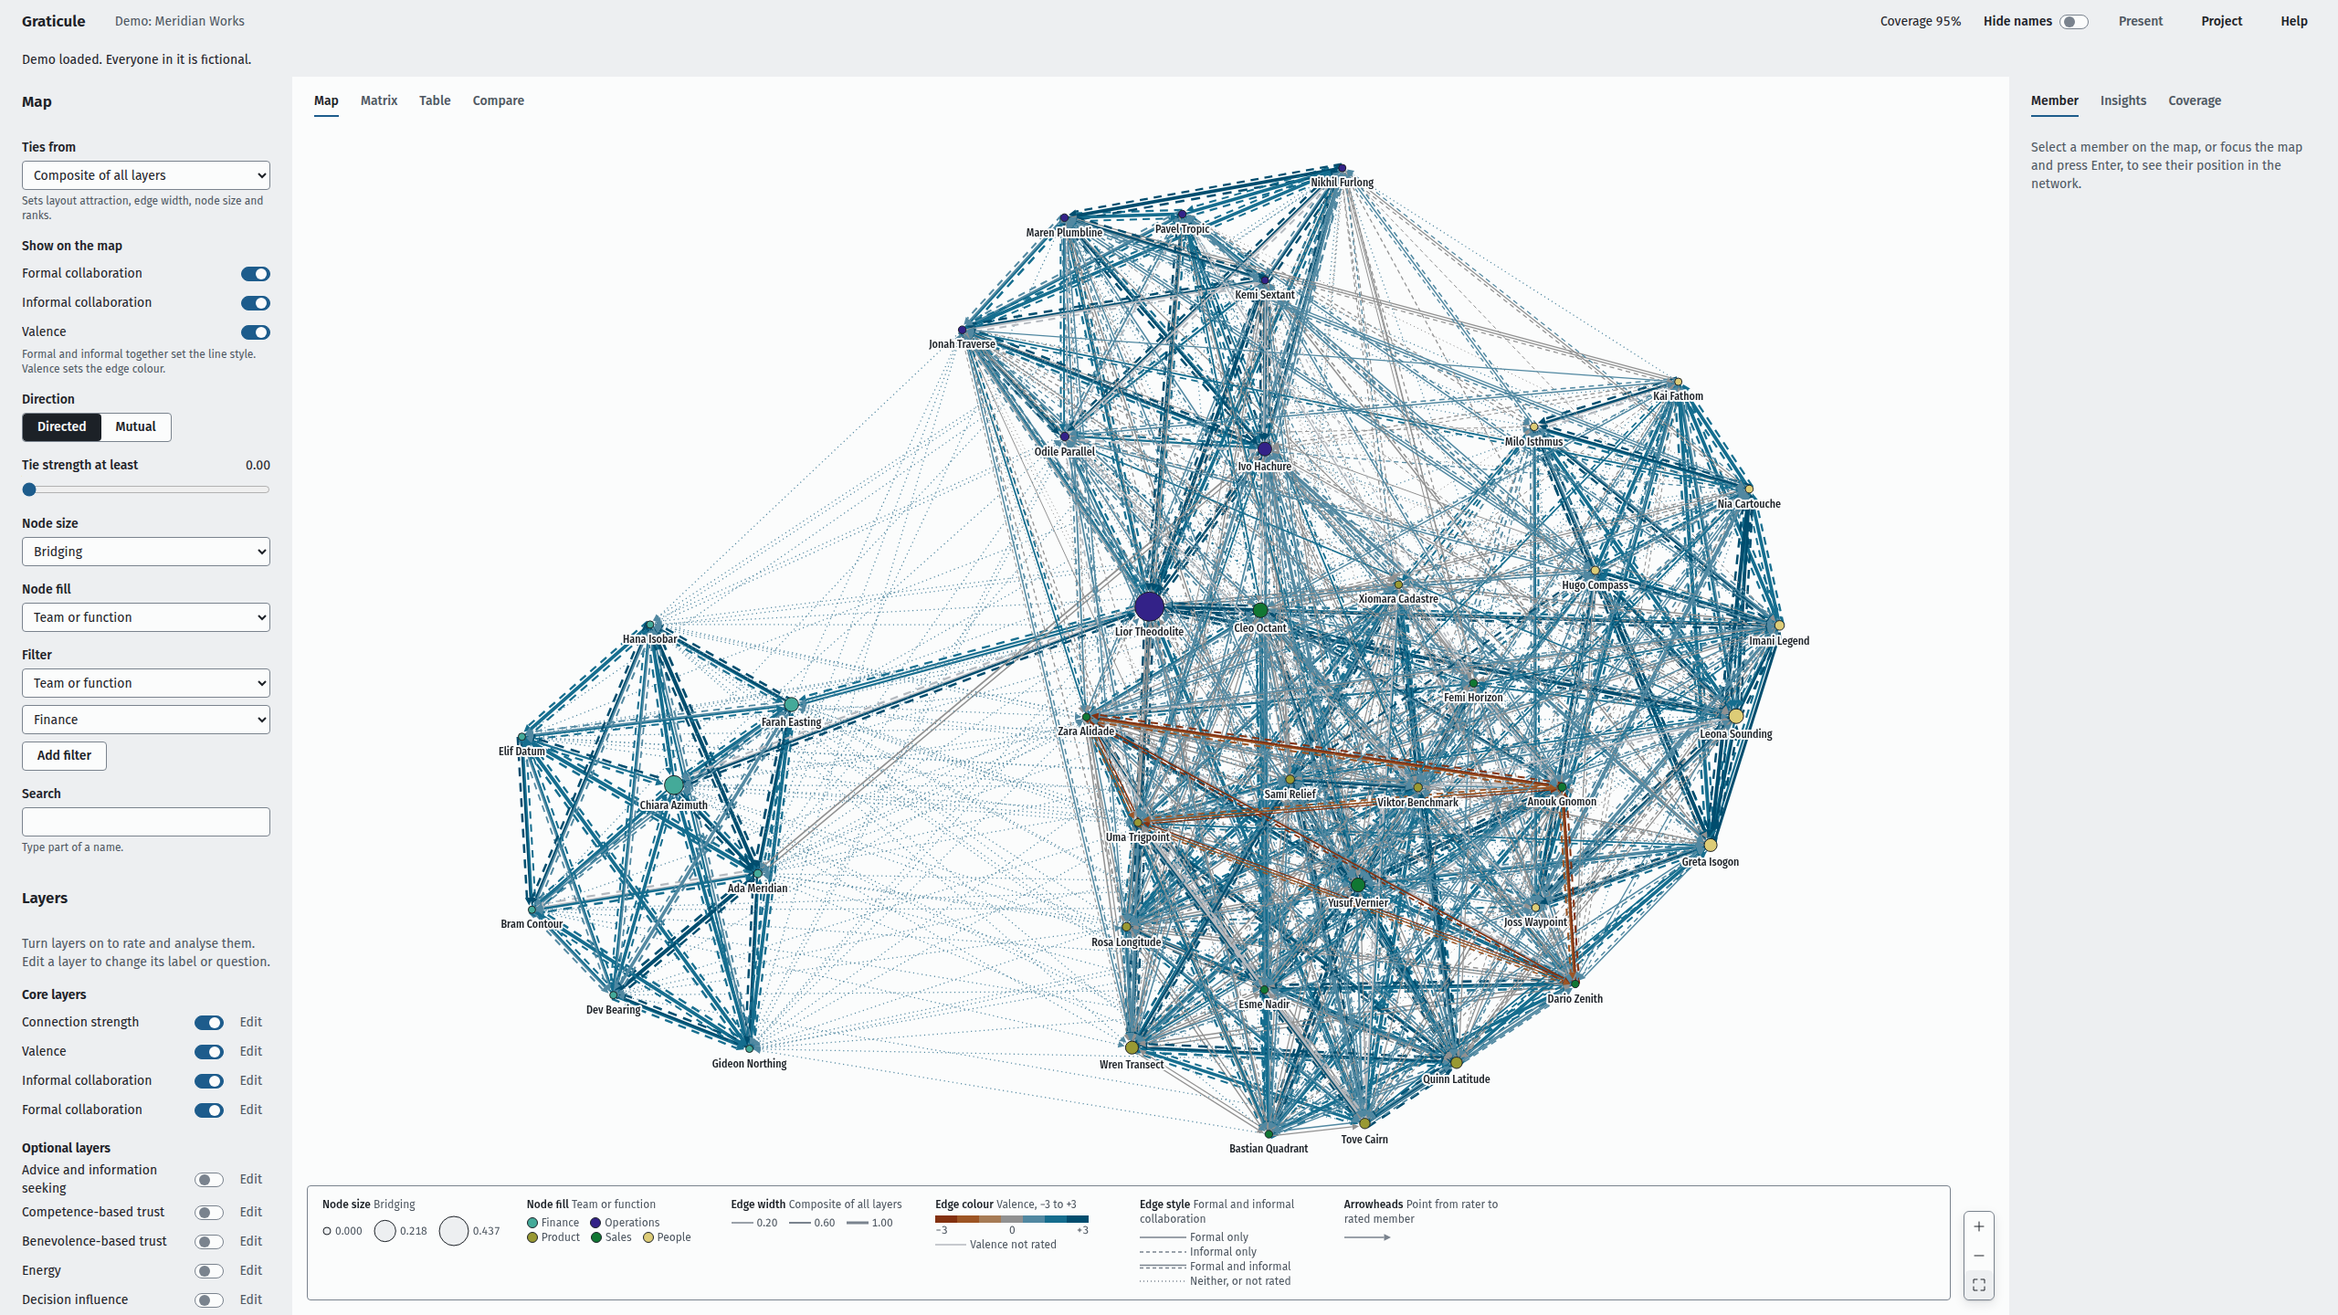
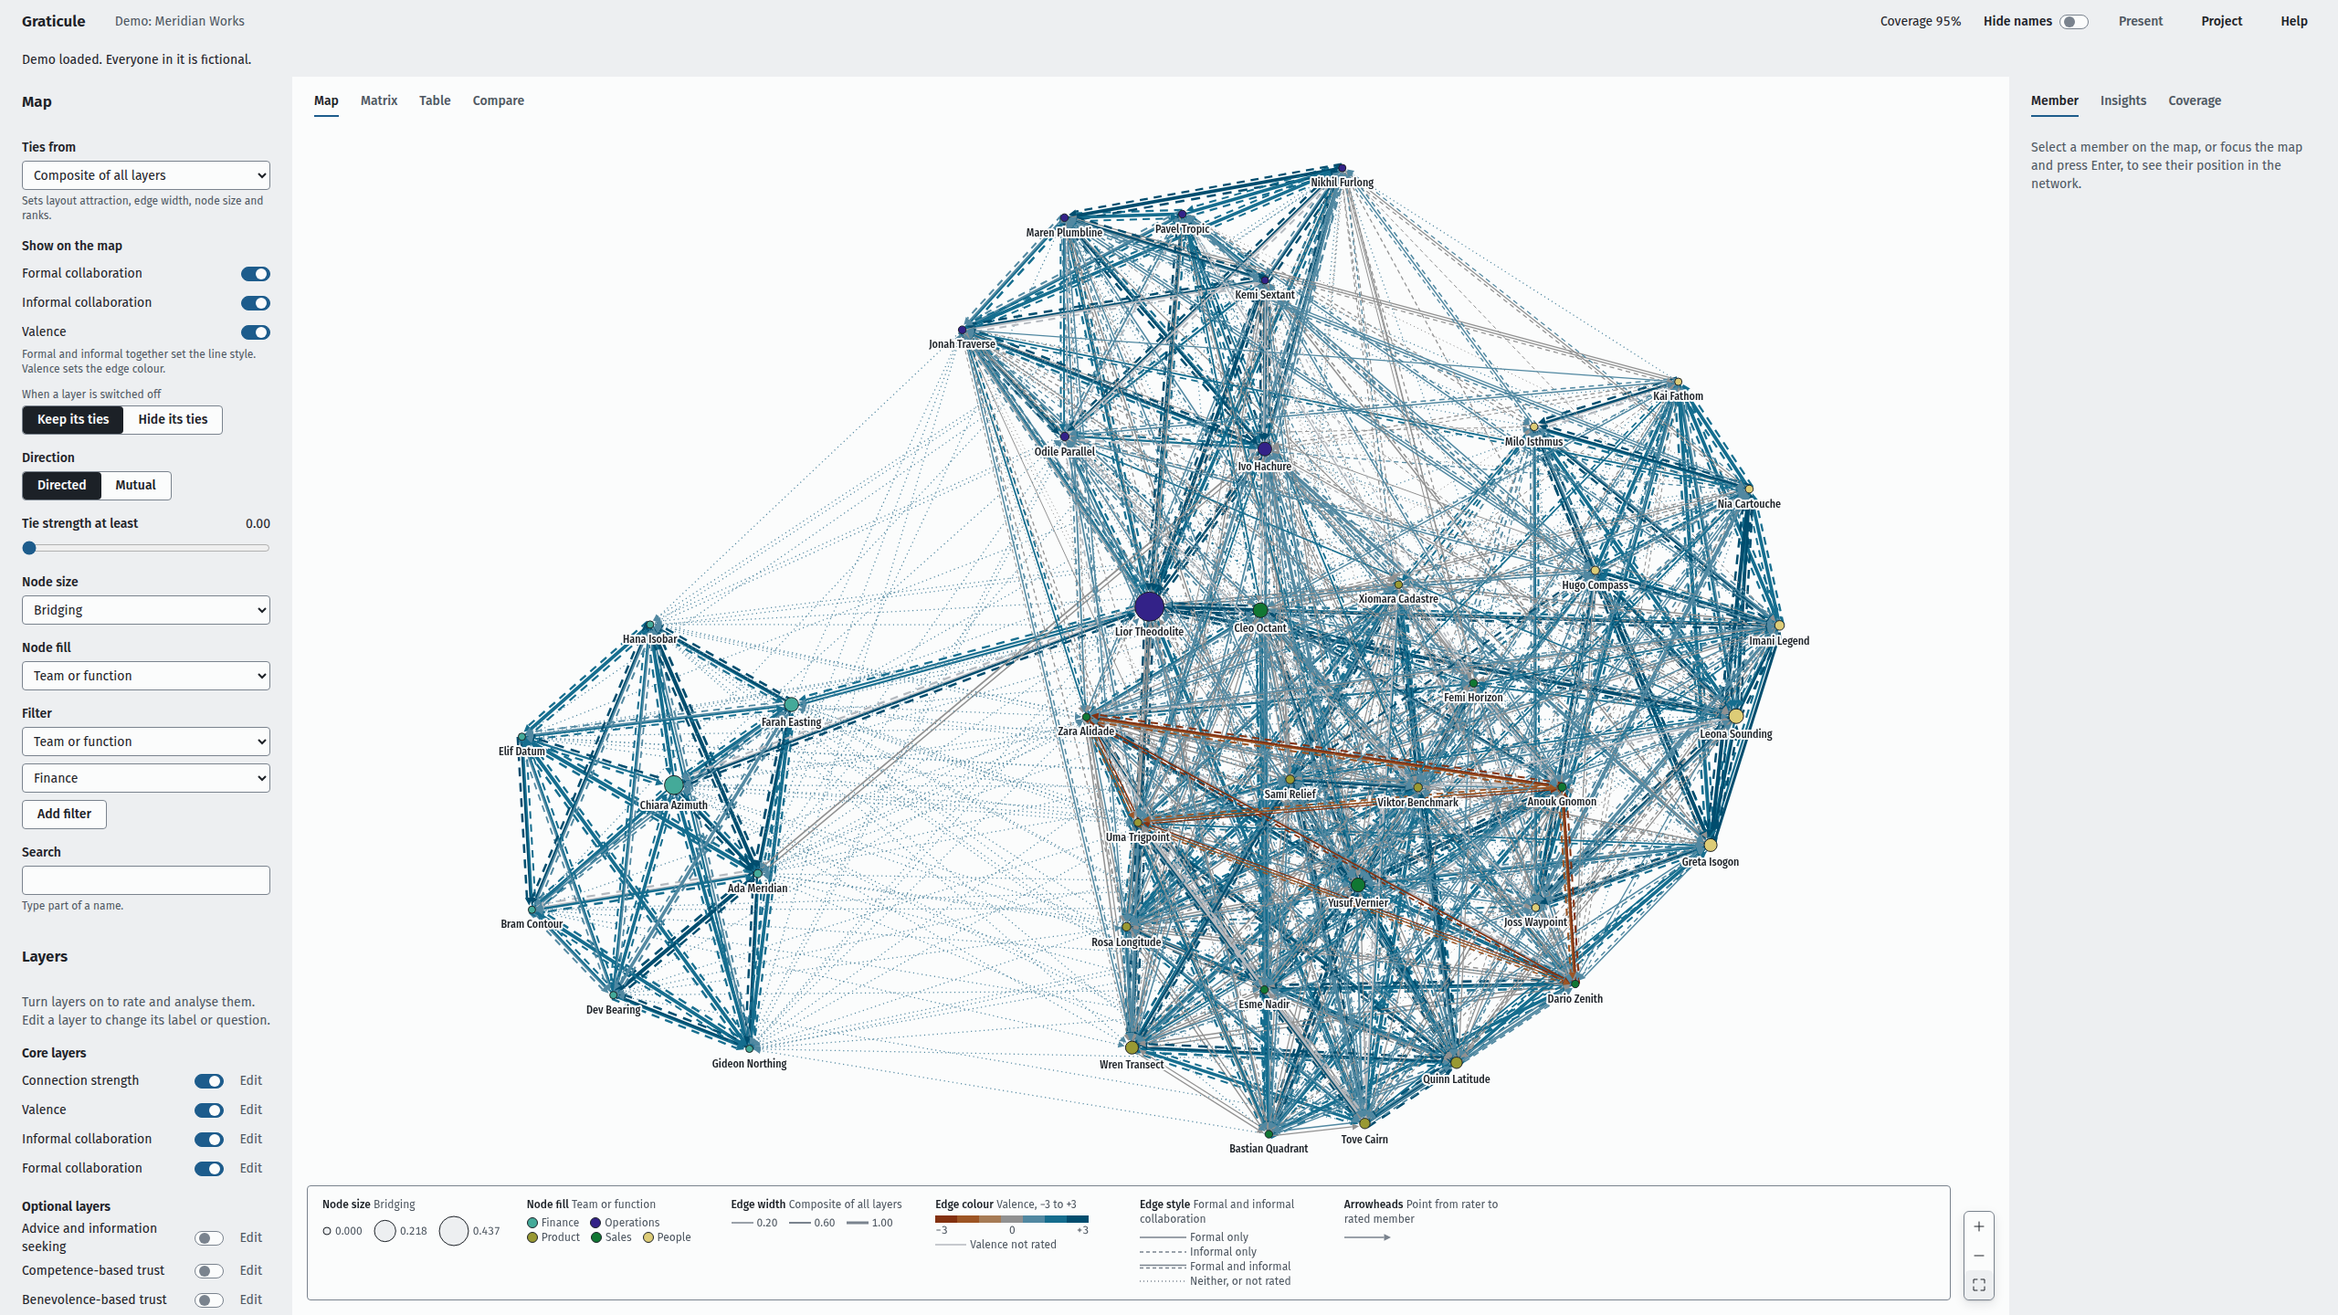
Map: option to hide a switched-off layer's ties; record Q21 and Q22
- "When a layer is switched off": Keep its ties (default) or Hide its ties.
  Hiding lists every enabled rated layer and removes pairs tied on any
  switched-off layer; the legend names the hidden layers.
- Q21: dotted style kept for now, with the owner's preference noted.
- Unit and end-to-end tests; screenshots regenerated.

Claude-Session: https://claude.ai/code/session_013Eqh7XpyYdbP7Q81DA9r5j

Changed region(s): [[0.0, 0.2812, 0.125, 1.0]]

diff --git a/src/ui/map/model.ts b/src/ui/map/model.ts
@@ -12,7 +12,12 @@
 //   arrowheads  → directed view only
 
 import { FI_CLASS, type AnalysisResult } from '../engineClient';
-import type { AttributeDefinition, LayerDefinition, Project } from '../../data/schema';
+import {
+  isCategorical,
+  type AttributeDefinition,
+  type LayerDefinition,
+  type Project,
+} from '../../data/schema';
 import type { MapSettings, SizeMetric } from '../state/store';
 
 export const NOT_RECORDED = '\u0000not-recorded';
@@ -84,6 +89,9 @@ export interface MapModel {
   styleShown: boolean;
   stylesPresent: EdgeStyle[];
   threshold: number;
+  /** Layers switched off whose ties are hidden (keys). */
+  hiddenLayers: string[];
+  hiddenLabels: string[];
   searchMatches: Set<number> | null;
 }
 
@@ -104,13 +112,35 @@ export function roleLayer(project: Project, role: 'formal' | 'informal') {
   return project.layers.find((l) => l.role === role && l.enabled && !l.signed);
 }
 
-/** Layers whose map toggle is offered: formal and informal (style) and valence (colour). */
-export function toggleLayers(project: Project): LayerDefinition[] {
+/**
+ * Layers whose map toggle is offered. By default, the layers that carry an
+ * encoding: formal and informal (style) and valence (colour). When switching a
+ * layer off hides its ties (CLAUDE.md D59), every enabled rated layer.
+ */
+export function toggleLayers(project: Project, hideOff = false): LayerDefinition[] {
+  if (hideOff) return project.layers.filter((l) => l.enabled && !isCategorical(l));
   return [
     roleLayer(project, 'formal'),
     roleLayer(project, 'informal'),
     valenceLayer(project),
   ].filter((l): l is LayerDefinition => l !== undefined);
+}
+
+/** Tie weights (view) of the layers switched off whose ties are hidden; a signed layer counts both signs. */
+function hiddenLayerWeights(
+  project: Project,
+  result: AnalysisResult,
+  settings: MapSettings,
+): { key: string; weights: Float64Array[] }[] {
+  if (!settings.hideOffLayers) return [];
+  return toggleLayers(project, true)
+    .filter((l) => !isToggledOn(settings, l.key))
+    .map((l) => ({
+      key: l.key,
+      weights: (l.signed ? [`${l.key}+`, `${l.key}-`] : [l.key])
+        .map((ref) => result.refs[ref]?.weights)
+        .filter((w): w is Float64Array => w !== undefined),
+    }));
 }
 
 export function isToggledOn(settings: MapSettings, key: string): boolean {
@@ -346,7 +376,10 @@ export function buildMapModel(
   const neighbours: number[][] = Array.from({ length: n }, () => []);
   const present = new Set<EdgeStyle>();
   let anyValenceMissing = false;
+  const hidden = hiddenLayerWeights(project, result, settings);
+  const hiddenWeights = hidden.flatMap((h) => h.weights);
   const shown = (k: number) => {
+    if (hiddenWeights.some((hw) => (hw[k] as number) > 0)) return false;
     const w = weights ? (weights[k] as number) : NaN;
     return w > 0 && w >= settings.threshold;
   };
@@ -406,6 +439,8 @@ export function buildMapModel(
     styleShown,
     stylesPresent: order.filter((s) => present.has(s)),
     threshold: settings.threshold,
+    hiddenLayers: hidden.map((h) => h.key),
+    hiddenLabels: hidden.map((h) => project.layers.find((l) => l.key === h.key)?.label ?? h.key),
     searchMatches,
   };
 }

diff --git a/tests/unit/map.test.ts b/tests/unit/map.test.ts
@@ -157,6 +157,33 @@ describe('map model', () => {
     expect(one.edges.every((e) => e.style === 'plain')).toBe(true);
   });
 
+  it('hides the ties of a switched-off layer only when asked to', async () => {
+    const off = { formal_collaboration: false };
+    const keep = await model({ layerToggles: off });
+    const all = await model();
+    expect(keep.edges.length).toBe(all.edges.length);
+    expect(keep.hiddenLayers).toEqual([]);
+    const hide = await model({ layerToggles: off, hideOffLayers: true });
+    expect(hide.hiddenLayers).toEqual(['formal_collaboration']);
+    expect(hide.edges.length).toBeLessThan(all.edges.length);
+    const r = await resultFor(demo, initialMapSettings());
+    const f = r.refs.formal_collaboration?.weights ?? new Float64Array();
+    const n = demo.members.length;
+    expect(hide.edges.every((e) => !((f[e.source * n + e.target] as number) > 0))).toBe(true);
+    // A signed layer switched off hides ties of either sign.
+    const noValence = await model({ layerToggles: { valence: false }, hideOffLayers: true });
+    const vp = r.refs['valence+']?.weights ?? new Float64Array();
+    const vn = r.refs['valence-']?.weights ?? new Float64Array();
+    for (const e of noValence.edges) {
+      const k = e.source * n + e.target;
+      expect((vp[k] as number) > 0 || (vn[k] as number) > 0).toBe(false);
+    }
+    const legend = legendSections(hide, theme).find((x) => x.kind === 'width');
+    expect(legend?.kind === 'width' && legend.notes).toEqual([
+      'Ties on Formal collaboration hidden',
+    ]);
+  });
+
   it('hides members outside the filters, and their ties', async () => {
     const m = await model({ filters: [{ key: 'team', values: ['Finance'] }] });
     const finance = new Set(
@@ -257,7 +284,7 @@ describe('legend', () => {
     expect(s.find((x) => x.kind === 'fill')?.variable).toBe('Team or function');
     const width = s.find((x) => x.kind === 'width');
     expect(width?.variable).toBe('Connection strength');
-    expect(width?.kind === 'width' && width.note).toBe('Ties below 0.40 hidden');
+    expect(width?.kind === 'width' && width.notes).toEqual(['Ties below 0.40 hidden']);
   });
 
   it('shows the valence scale, and a separate entry for valence not rated', async () => {

diff --git a/src/ui/views/MapControls.tsx b/src/ui/views/MapControls.tsx
@@ -48,7 +48,7 @@ export function MapControls() {
   const layers = drawableLayers(project, result);
   const layerLabel = (key: string) =>
     key === 'composite' ? C.composite : (project.layers.find((l) => l.key === key)?.label ?? key);
-  const toggles = toggleLayers(project);
+  const toggles = toggleLayers(project, settings.hideOffLayers);
   const columns = result.refs[settings.layer]?.node.columns ?? {};
   const metrics = (settings.view === 'directed' ? DIRECTED_METRICS : SYMMETRISED_METRICS).filter(
     (m) => m in columns,
@@ -138,6 +138,25 @@ export function MapControls() {
             {toggles.some((l) => l.role) && `${C.styleHelp} `}
             {toggles.some((l) => l.signed) && C.colourHelp}
           </p>
+          <fieldset className="map-controls__subgroup">
+            <legend className="field__help">{C.whenOff}</legend>
+            <div className="segmented">
+              {([false, true] as const).map((hide) => (
+                <label key={String(hide)} className="segmented__option">
+                  <input
+                    type="radio"
+                    className="segmented__input"
+                    name={`${ids.show}-off`}
+                    checked={settings.hideOffLayers === hide}
+                    onChange={() => {
+                      setMap({ hideOffLayers: hide });
+                    }}
+                  />
+                  <span className="segmented__label">{hide ? C.hideTies : C.keepTies}</span>
+                </label>
+              ))}
+            </div>
+          </fieldset>
         </fieldset>
       )}
 

diff --git a/tests/e2e/map.spec.ts b/tests/e2e/map.spec.ts
@@ -121,6 +121,14 @@ test('load demo, map renders, filter, select a member, open the panel, traverse 
   await expect(legend.getByText('Not used: valence is hidden')).toBeVisible();
   await page.getByRole('switch', { name: 'Valence on the map' }).click();
 
+  // Layer toggles can also hide a layer's ties.
+  await page.getByRole('radio', { name: 'Hide its ties' }).check();
+  await page.getByRole('switch', { name: 'Formal collaboration on the map', exact: true }).click();
+  await expect(legend.getByText('Ties on Formal collaboration hidden')).toBeVisible();
+  await page.getByRole('switch', { name: 'Formal collaboration on the map', exact: true }).click();
+  await page.getByRole('radio', { name: 'Keep its ties' }).check();
+  await expect(legend.getByText(/Ties on .* hidden/)).toHaveCount(0);
+
   // Threshold: the legend states it; fewer ties are shown.
   const tiesOf = async (name: RegExp) =>
     Number(

diff --git a/src/ui/copy/map.ts b/src/ui/copy/map.ts
@@ -51,6 +51,9 @@ export const mapCopy = {
     composite: 'Composite of all layers',
     show: 'Show on the map',
     onMap: 'on the map',
+    whenOff: 'When a layer is switched off',
+    keepTies: 'Keep its ties',
+    hideTies: 'Hide its ties',
     styleHelp: 'Formal and informal together set the line style.',
     colourHelp: 'Valence sets the edge colour.',
     direction: 'Direction',
@@ -100,6 +103,7 @@ export const mapCopy = {
     width: 'Edge width',
     widthScale: (layer: string) => layer,
     threshold: (value: string) => `Ties below ${value} hidden`,
+    hiddenLayers: (labels: string[]) => `Ties on ${labels.join(' and ')} hidden`,
     colour: 'Edge colour',
     valence: 'Valence, −3 to +3',
     valenceNotRated: 'Valence not rated',

diff --git a/src/ui/map/legend.ts b/src/ui/map/legend.ts
@@ -29,7 +29,7 @@ export type LegendSection =
       title: string;
       variable: string;
       samples: { width: number; label: string }[];
-      note: string | null;
+      notes: string[];
     }
   | {
       kind: 'colour';
@@ -99,7 +99,10 @@ export function legendSections(model: MapModel, r: LegendRadii): LegendSection[]
       width: r.edgeMin + (r.edgeMax - r.edgeMin) * w,
       label: formatWeight(w),
     })),
-    note: model.threshold > 0 ? L.threshold(formatWeight(model.threshold)) : null,
+    notes: [
+      ...(model.threshold > 0 ? [L.threshold(formatWeight(model.threshold))] : []),
+      ...(model.hiddenLayers.length > 0 ? [L.hiddenLayers(model.hiddenLabels)] : []),
+    ],
   });
 
   sections.push({

diff --git a/src/ui/views/MapLegend.tsx b/src/ui/views/MapLegend.tsx
@@ -231,9 +231,12 @@ export const MapLegend = forwardRef<HTMLElement, { model: MapModel; theme: MapTh
               <span className="legend__variable">{section.variable}</span>
             </p>
             <Sample section={section} theme={theme} />
-            {section.kind === 'width' && section.note && (
-              <p className="legend__note num">{section.note}</p>
-            )}
+            {section.kind === 'width' &&
+              section.notes.map((note) => (
+                <p key={note} className="legend__note num">
+                  {note}
+                </p>
+              ))}
           </div>
         ))}
       </section>

diff --git a/src/ui/state/store.ts b/src/ui/state/store.ts
@@ -71,6 +71,8 @@ export interface MapSettings {
   threshold: number;
   /** Layers shown as an encoding: the formal and informal layers (edge style) and valence (edge colour). */
   layerToggles: Record<LayerKey, boolean>;
+  /** When true, a layer switched off also hides its ties (CLAUDE.md D59). */
+  hideOffLayers: boolean;
   filters: AttributeFilter[];
   search: string;
 }
@@ -129,6 +131,7 @@ export function initialMapSettings(): MapSettings {
     fill: { kind: 'attribute', key: 'team' },
     threshold: 0,
     layerToggles: {},
+    hideOffLayers: false,
     filters: [],
     search: '',
   };

diff --git a/src/styles/map.css b/src/styles/map.css
@@ -299,6 +299,18 @@
   min-width: 0;
 }
 
+.map-controls__subgroup {
+  margin: var(--s-3) 0 0;
+  padding: 0;
+  border: 0;
+  min-width: 0;
+}
+
+.map-controls__subgroup > legend {
+  padding: 0;
+  margin-bottom: var(--s-1);
+}
+
 .map-controls__group > legend {
   padding: 0;
   margin-bottom: var(--s-1);

diff --git a/CLAUDE.md b/CLAUDE.md
@@ -72,8 +72,13 @@ Phase 0 decisions D1–D13, Phase 1 decisions D14–D25 and Phase 3 decisions D3
 | D56 | 2026-09-26 | Member panel (design-system §5.2): attributes with the manager as a link; "Position in the network" with a layer selector that follows the map until changed; value and rank per metric in the view's panel order; ranks are single ranks, 1 = highest, tied values shown as a range ("22–24"), undefined values unranked ("–"), with a note that resampled rank ranges are not calculated yet (the bootstrap runs on request in Phase 5). Each metric has an info button with a tooltip giving the meaning and caveat from `docs/method-notes.md` §3 (copied into `ui/copy/metrics.ts`), the reason when not defined, and the technical name. Ties by layer: one disclosure per enabled scaled layer (the selected layer open), given and received ratings, "–" for not rated | Proposed | `src/ui/views/MemberPanel.tsx` |
 | D57 | 2026-09-26 | The coverage warning is shown inside the map (top left) as well as in the status line. Fit to view keeps members clear of the legend (choosing the larger of the area beside or above it) and below the coverage note | Proposed | `src/ui/map/controller.ts` |
 | D58 | 2026-09-26 | Phase 4 tests: `tests/fixtures/synthetic.ts` generates a seeded 250-member project (5 teams, ~10,200 connection-strength ties, each with formal, informal and valence ratings; coverage 16 %), opened through Project → Open in the e2e test. Frame time is the interval between animation frames recorded in the page during a 60-step drag and 40 wheel steps. The projector screenshot is the normal screenshot redrawn with `contrast(55%) brightness(115%) saturate(80%)` (a simulation, not a measurement of any projector). `data.spec.ts` now expects the map instead of the removed Phase 2 project summary, and the first of two coverage notes | Proposed | `tests/` |
+| D59 | 2026-09-26 | Layer toggles can also remove ties (owner, Q22): "When a layer is switched off" offers Keep its ties (default, D54) or Hide its ties. With Hide, the switches list every enabled rated layer, and a pair is hidden when it has a tie on any switched-off layer in the current view (a signed layer counts ties of either sign); the legend lists the hidden layers under edge width. Switching off the layer chosen in "Ties from" therefore hides every tie | Proposed | `src/ui/map/model.ts`, `src/ui/views/MapControls.tsx` |
 
 ## Resolved questions
+
+Q22 (layer toggles): on 2026-09-26 the owner asked for an option to remove ties as well; built as D59.
+
+Q21 (edge style when a rating is missing): on 2026-09-26 the owner accepted the dotted style for now and said no style is perhaps best. Kept dotted (D53) for the time being. To revisit: "no style" would draw these ties as plain solid lines, which is the formal-only style, so it needs a distinct unstyled look (for example thinner, or excluded from the style legend with a note) before it can replace dotted.
 
 Q20 (SheetJS source in the cloud environment): on 2026-09-26 the owner re-approved `cdn.sheetjs.com`; `npm ci` succeeds and the committed lock file installs SheetJS 0.20.3 unchanged (`npm install` leaves it byte-identical).
 
@@ -83,9 +88,7 @@ On 2026-09-26 the owner approved `docs/plan.md` §6 Q1–Q17 with their proposed
 
 ## Open questions
 
-Q21 (edge style when a rating is missing): a pair tied on the selected layer whose formal or informal rating is missing, and with no positive rating on the other, is drawn dotted like "neither", under the legend label "Neither, or not rated". This groups "rated 0 on both" with "not rated" in one line style. Alternatives: a fifth line style, or no style for such pairs. Default if not answered: keep as built (D53).
-
-Q22 (meaning of "layer toggles"): built as switches for the layers that carry an encoding (formal and informal → line style, valence → colour); which pairs are edges is set by "Ties from". The alternative reading is that each toggle adds or removes that layer's ties from the map. Default if not answered: keep as built (D54).
+None.
 
 ## Phase status
 
